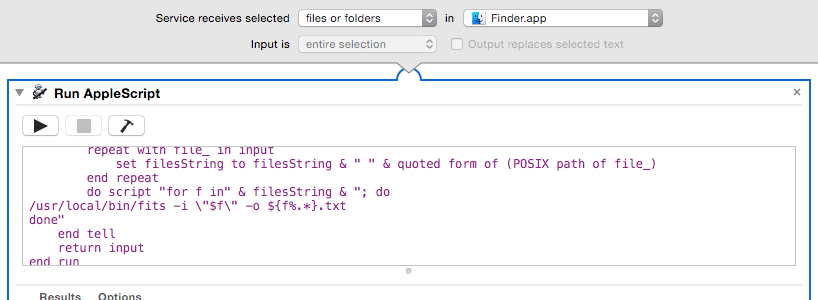
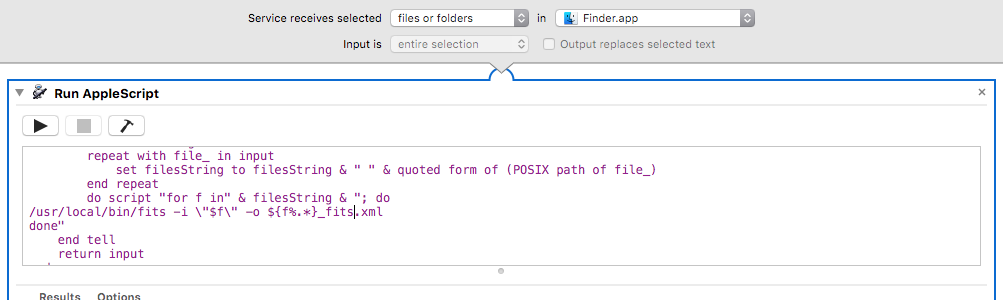
Cleanup+BagIt-SHA256

diff --git a/README.md b/README.md
@@ -1,4 +1,4 @@
-## [@pixels_per_inch](https://twitter.com/pixels_per_inch)'s digital production microservices (OS X)
+## Digital Production Unit microservices (OS X)
 
 A collection of automator workflows to be installed as OS X Services (right-click menu tasks). I put these together primarily for my students and staff who are not comfortable using terminal commands, but I use the hell out of them myself.
 
@@ -8,23 +8,26 @@ Simplest way is to [download zip package](https://github.com/tvc15brian/dpu-micr
 
 ### Other Notes
 
-Please note that most workflows are using third-party scripts, the default path of them (for example `ffmpeg`) is `/usr/local/bin/ffmpeg`. (Installed by [Homebrew](http://brew.sh/)). I recommend using Homebrew to install/manage all packages.
+Please note that most workflows are using third-party scripts, the default path of them (for example `ffmpeg`) is `/usr/local/bin/ffmpeg`. (Installed by [Homebrew](http://brew.sh/)). I recommend using [Homebrew] (http://brew.sh) to install/manage all packages.
 
 ### Available Workflows
 #####BagBatch 
 
 This workflow builds upon the bagbatch.py script from Carleton Archives (https://github.com/CarletonArchives/BagBatch) and requires that BagIt be installed as well as Python. Again, Homebrew is the best way to install both of these. This workflow also requires that the assets to be bagged exist in subdirectories. If you have a lot of files then the files-into-folders workflow below should help with that. 
 
-Youtube (https://www.youtube.com/watch?v=f5mIuS3_5Fg)
+[Youtube] (https://www.youtube.com/watch?v=f5mIuS3_5Fg)
 
-#####FFV1 Video Codec 
+#####FFV1 
 
-The FFV1 video codec is a simple and efficient lossless intra-frame only codec. This workflow wraps an ffv1 in a Matroska wrapper. See workflow for specifc transcoding/encoding specs. This workflow results in a matroska-wrapped ffv1 file (orignalfilename.mkv) in the same directory as original file.
+The FFV1 video codec is a simple and efficient lossless intra-frame only codec. This workflow wraps an FFV1 in a Matroska wrapper. See workflow for specifc transcoding/encoding specs. This workflow results in a matroska-wrapped FFV1 file (orignalfilename.mkv) in the same directory as original file.
 
 #####framemd5
 
 The FFmpeg framemd5 format used to decode input audiovisual data to produce one checksum per frame. These formats facilitate testing functions such as verifying that an adjusted decoder maintains intended results or that an FFmpeg decoder decodes a stream to the same data as another decoder. This workflow results in a framemd5 document (orignalfilename.framemd5) in the same directory as original file.
 
+#####BagIt-SHA256
+
+BagIt is a hierarchical file packaging format designed to support disk-based storage and network transfer of arbitrary digital content. This workflow opts for the SHA256 algorithm since it's stronger against random and deliberate collisions when compared to MD5.
 
 #####CRC (Cyclic Redundancy Check) Testing Format
 
@@ -33,21 +36,21 @@ This muxer computes and prints the Adler-32 CRC of all the input audio and video
 
 #####MediaInfo
 
-MediaInfo is a free and open-source program that displays technical information about media files, as well as tag information for many audio and video files. This workflow results in a plain text file (orignalfilename.txt) in the same directory as original file.
+MediaInfo is a free and open-source program that displays technical information about media files, as well as tag information for many audio and video files. This workflow results in an XML file (orignalfilename_mediainfo.xml) in the same directory as original file.
 
 
 #####MediaTrace
 
-MediaTrace is a technical report that expresses the binary architecture of a file, as interpreted by MediaArea’s principal software, MediaInfo. This workflow results in an xml file (orignalfilename.xml) in the same directory as original file.
+MediaTrace is a technical report that expresses the binary architecture of a file, as interpreted by MediaArea’s principal software, MediaInfo. This workflow results in an XML file (orignalfilename_mediatrace.xml) in the same directory as original file.
 
 
 #####FITS
 
-The File Information Tool Set (FITS) identifies, validates and extracts technical metadata for a wide range of file formats. It acts as a wrapper, invoking and managing the output from several other open source tools. Output from these tools are converted into a common format, compared to one another and consolidated into a single XML output file. This workflow results in an xml file (orignalfilename.xml) in the same directory as original file.
+The File Information Tool Set (FITS) identifies, validates and extracts technical metadata for a wide range of file formats. It acts as a wrapper, invoking and managing the output from several other open source tools. Output from these tools are converted into a common format, compared to one another and consolidated into a single XML output file. This workflow results in an xml file (orignalfilename_fits.xml) in the same directory as original file.
 
 #####files-into-folders
 
-This simple workflow moves files into appropriately named folders. 
+This workflow moves files into appropriately named folders. 
 
 
 #####SHA256
